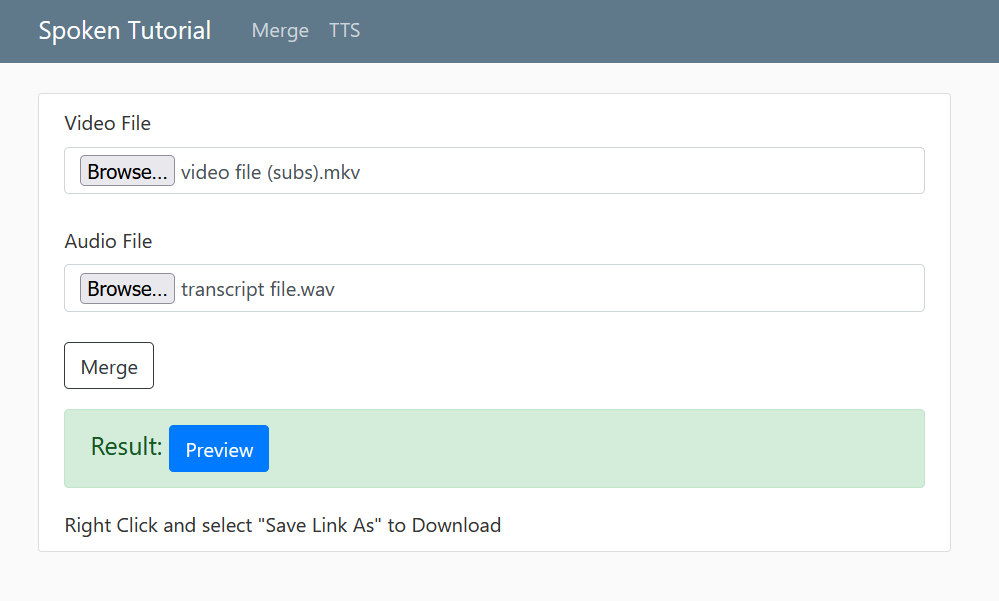
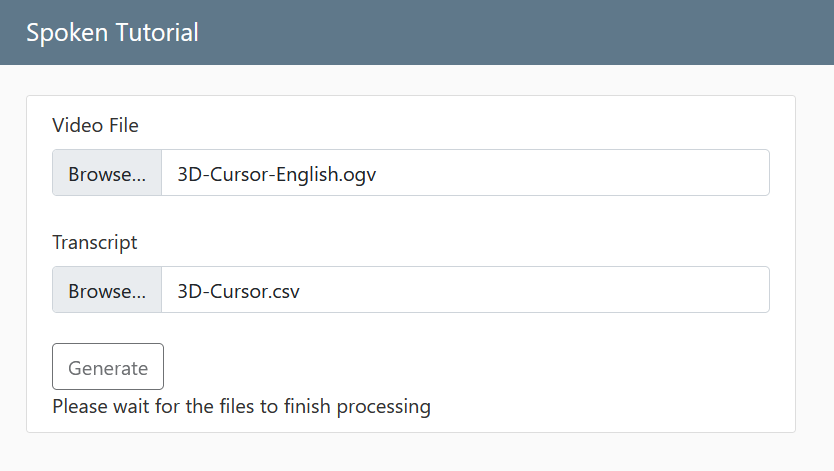
Update README and images

diff --git a/README.md b/README.md
@@ -1,14 +1,16 @@
 # Spoken Tutorial
 
 ## Motivation
+
 Built for the [screening phase](https://spoken-tutorial.org/stinternship2022/autogeneration/) of the FOSSEE program under Python.
 
-## This branch uses gTTS as a test
+## This branch uses edge-tts as a test
 
 ## Technologies/Frameworks Used
+
 - [ffmpeg-python](https://kkroening.github.io/ffmpeg-python/)
 - [Django](https://www.djangoproject.com/)
-- [gtts](https://gtts.readthedocs.io)
+- [edge-tts](https://github.com/rany2/edge-tts)
 
 **Why function based views instead of class based views?**  
 Personal preference. I find function based views more clear and verbose in what they do as compared to class based (magic) views.
@@ -17,6 +19,7 @@ Personal preference. I find function based views more clear and verbose in what 
 Other options were gTTS which did not have male/female voice options, and Google Cloud TTS / IBM Watson, neither of which are easily accessible (require banking information). So this module became the go to choice.
 
 ## Wireframe
+
 ![Wireframe](wireframe.png)
 
 ## Instructions
@@ -24,36 +27,42 @@ Other options were gTTS which did not have male/female voice options, and Google
 ### Pre-requisites
 
 #### Download ffmpeg
+
 > [Windows](https://www.gyan.dev/ffmpeg/builds/ffmpeg-release-essentials.7z)
-> 
+>
 > [Mac](https://evermeet.cx/ffmpeg/ffmpeg-5.0.7z)
 >
-> Linux - just run ```sudo apt-get install ffmpeg``` or equivalent for your distro.
+> Linux - just run `sudo apt-get install ffmpeg` or equivalent for your distro.
 
->```ffmpeg``` should be in your $PATH, [video tutorial for windows](https://mega.nz/file/uQkiBZ7Z#A_pulEQLqvt98hANtbePO5g4nw2Wtoh0-f9Si1yJ-ss).
-
+> `ffmpeg` should be in your $PATH, [video tutorial for windows](https://mega.nz/file/uQkiBZ7Z#A_pulEQLqvt98hANtbePO5g4nw2Wtoh0-f9Si1yJ-ss).
 
 Install requirements
->```pip install -r requirements.txt```
+
+> `pip install -r requirements.txt`
 
 Run migrate command
->```python manage.py migrate```
+
+> `python manage.py migrate`
 
 ### Running
+
 Run using
->```python manage.py runserver```
+
+> `python manage.py runserver`
 
 ### Open in browser
+
 Visit [localhost](http://localhost:8000).
 
 ## Screenshots
+
 ![ScreenShot1](ss1.PNG)
 ![ScreenShot2](ss2.PNG)
 
 ## How to use?
-- Default page is the merge portal, upload valid video and audio files.
-- It should give a Preview button after clicking merge, if something went wrong either ffmpeg is not in path or uploaded files are invalid.
-- The TTS page accepts text file with readable text.
-> Example contents: "The quick brown fox jumped over a branch."
-- If the text file is valid a download button would be visible.
-- [Video Demo](https://mega.nz/file/vMtSFDwa#vlJV-pZELTvoWmSrJn0K88Kv-siNRhe_hVkvIII2HNo)
+
+- There is only one page where you can upload video and transcript files.
+- It should give a Preview button after clicking Generate, if something went wrong either ffmpeg is not in path or uploaded files are invalid.
+> Any video file that ffmpeg can process is valid.  
+> Check Example Files folder for CSV contents.
+- Example Files [here](example_files).
